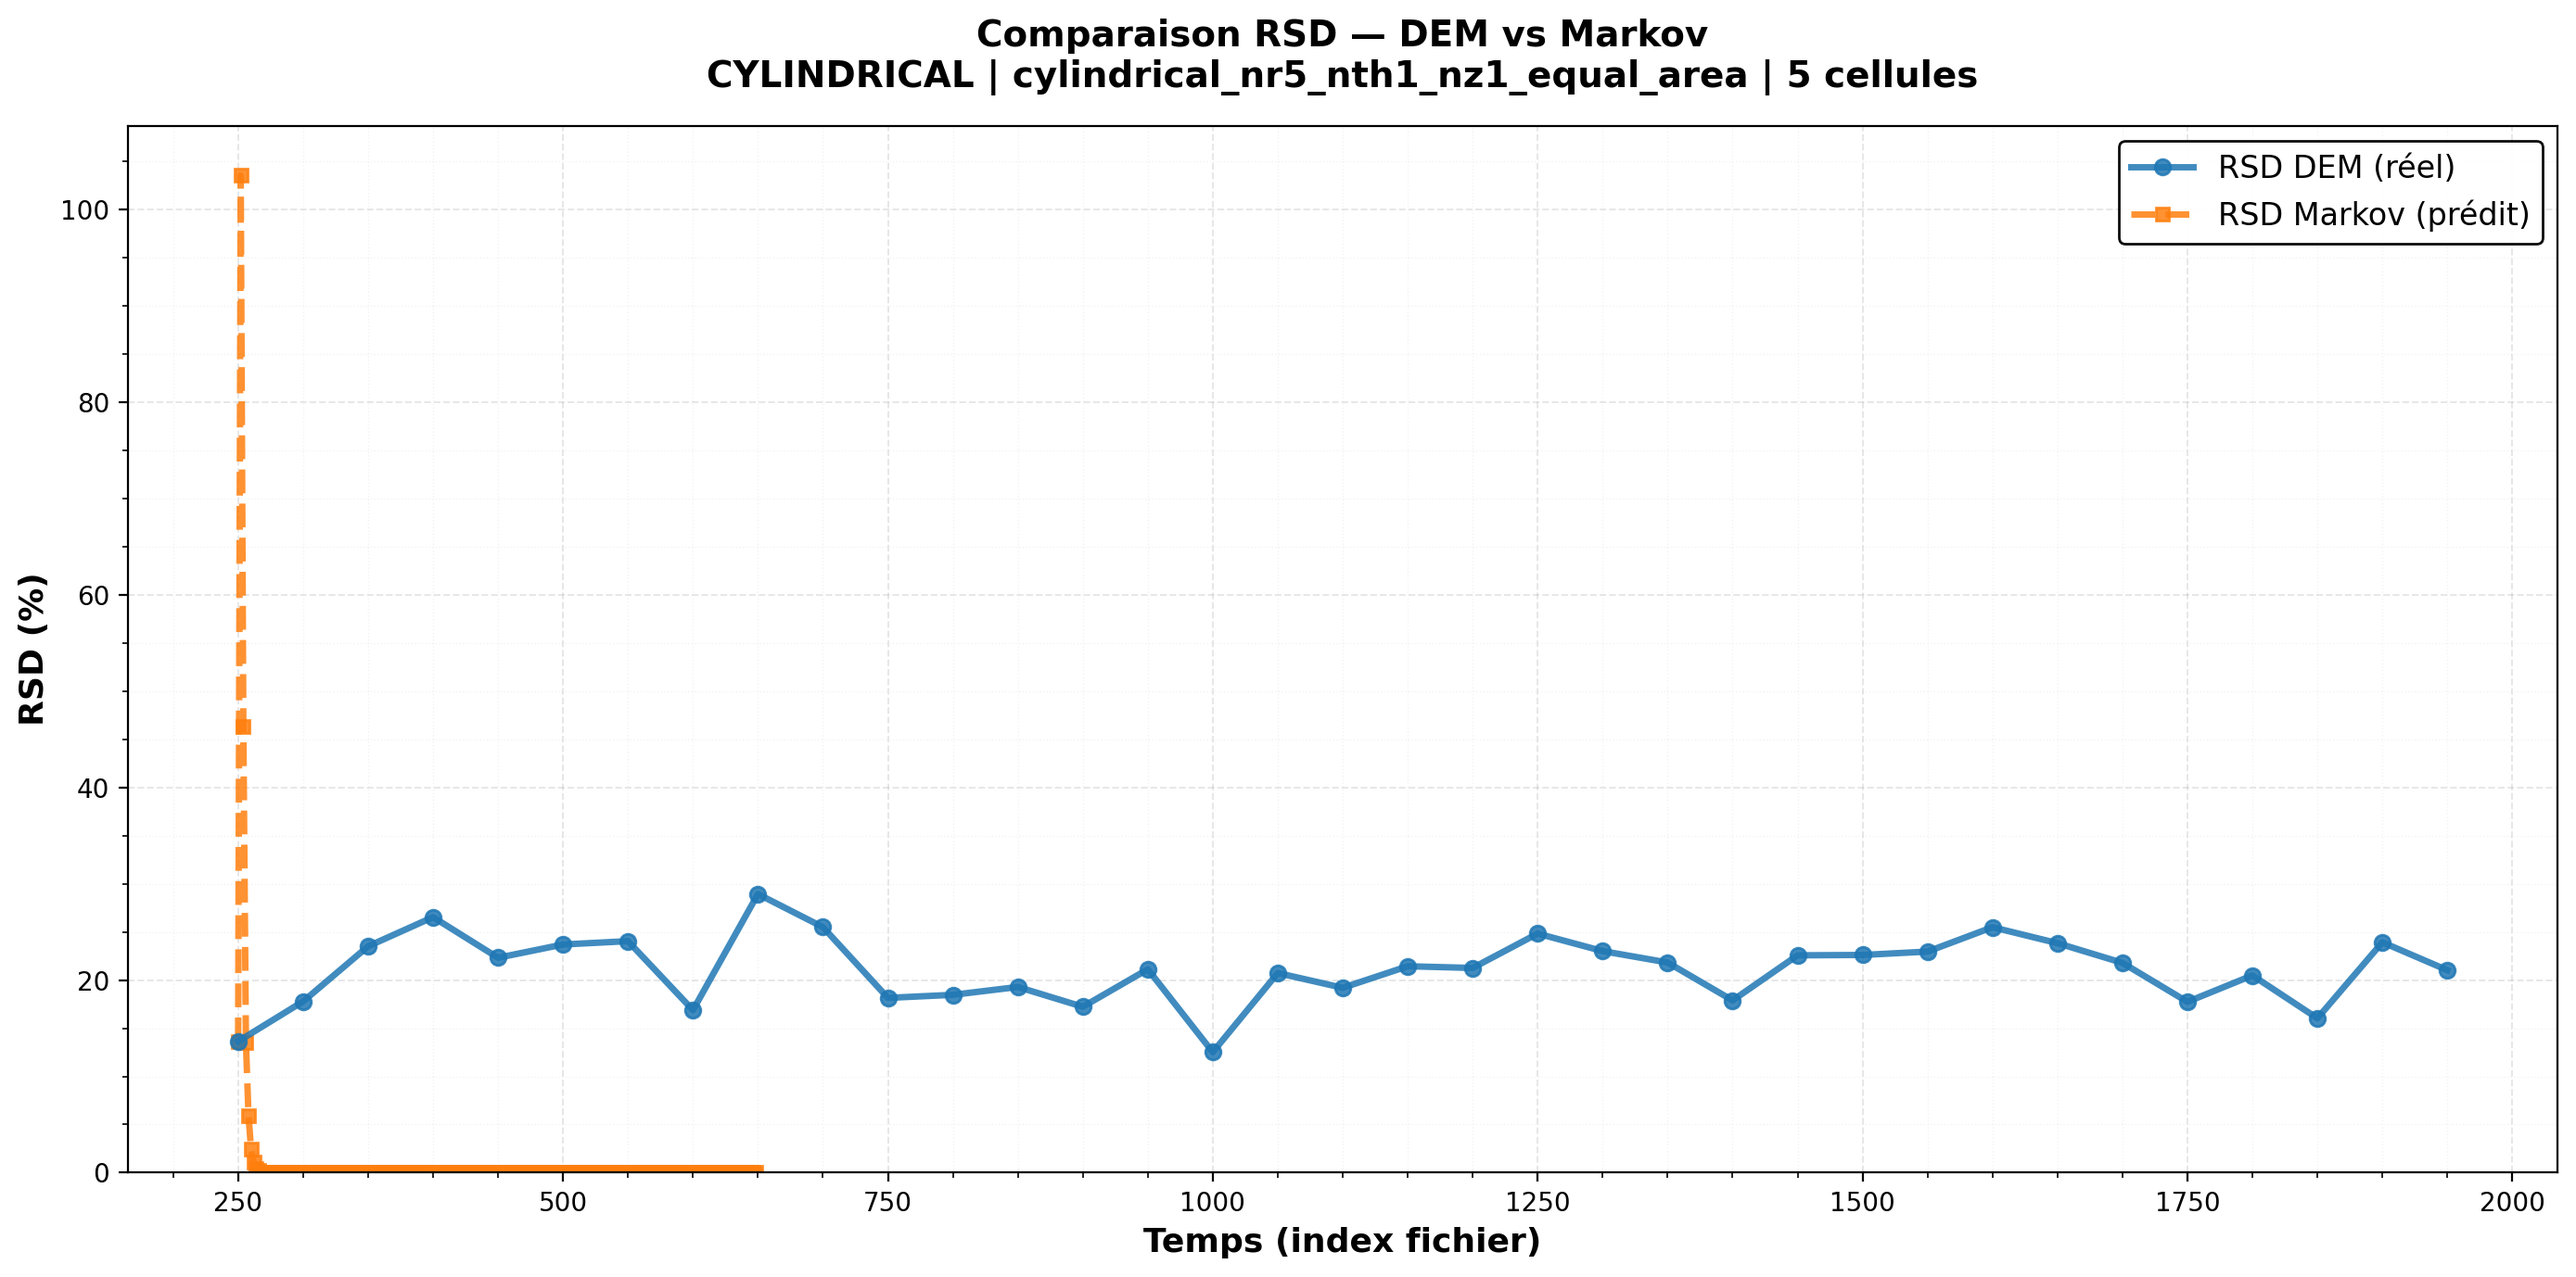
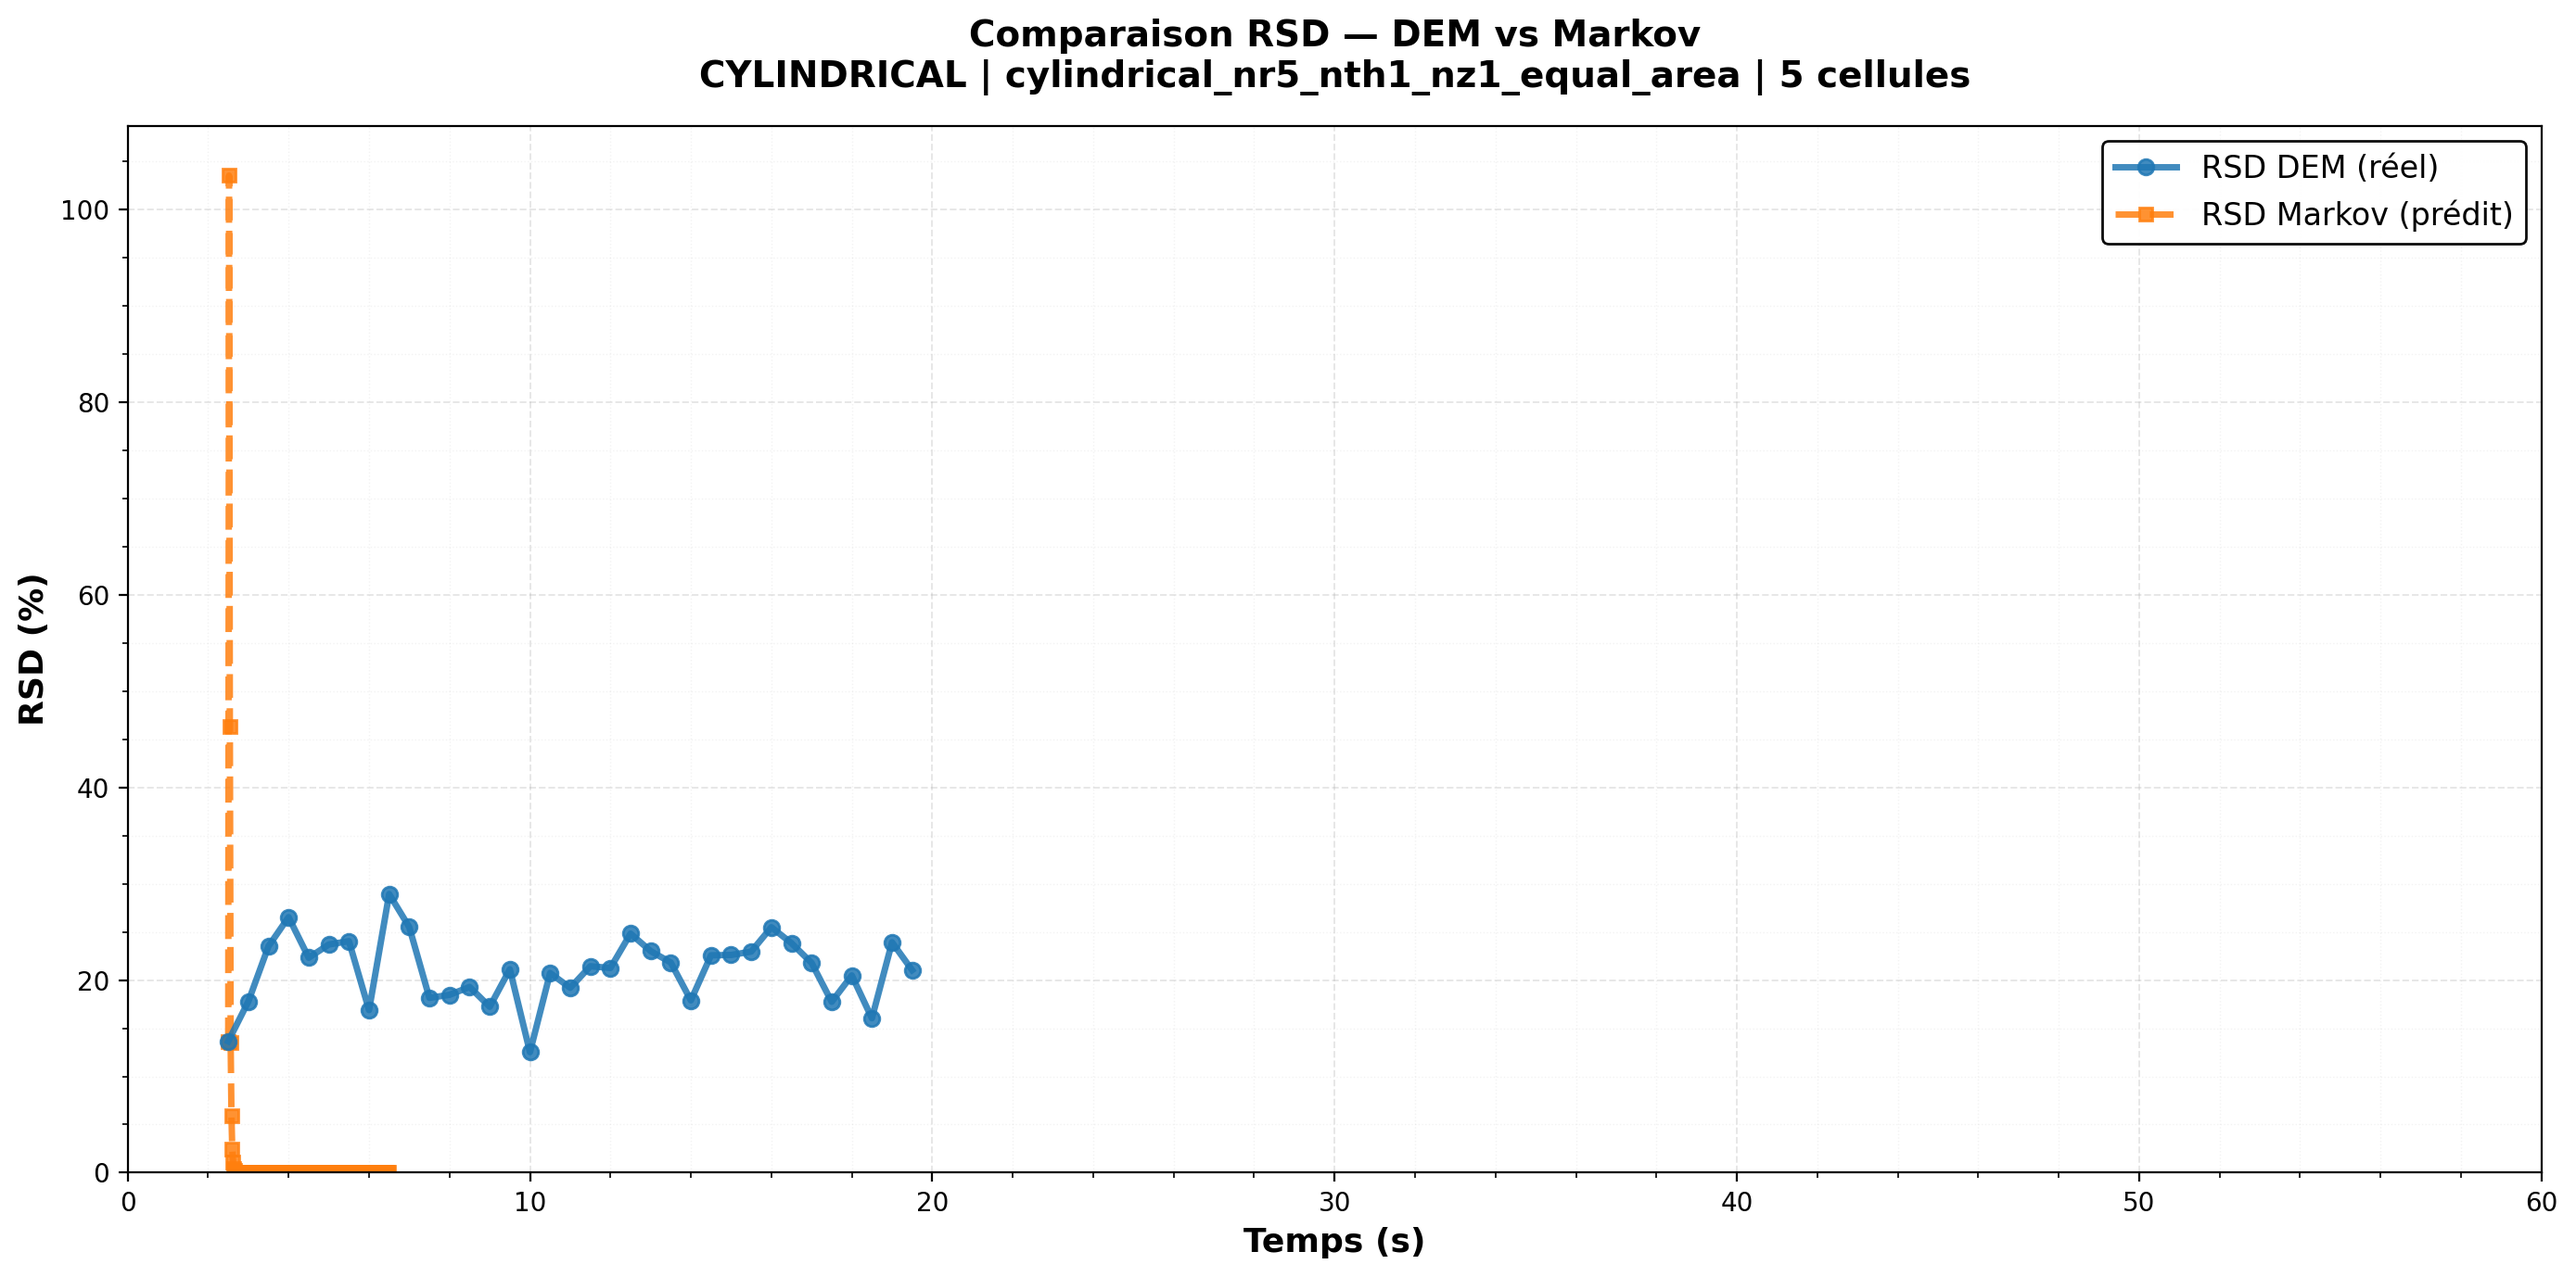
⏱ Plot RSD vs physical time (seconds) instead of file indices
**Changes:**
- plot_dem_vs_markov_simple(): X-axis now shows time in seconds (0-60s)
- Conversion formula: time_s = (file_index / total_files) * max_time_seconds
- Default: 6000 files → 60 seconds
- Markov dt extracted from folder name (dt parameter)
- X-axis limited to 0-60s range

**Files Modified:**
- DEM_MCM/src/analyze_results.py: Updated plot_dem_vs_markov_simple()

**Testing:**
✅ Syntax verified
✅ Tested with cylindrical method (10 cells)
✅ Time axis correctly shows 0-60 seconds range

diff --git a/DEM_MCM/src/analyze_results.py b/DEM_MCM/src/analyze_results.py
@@ -2053,37 +2053,55 @@ Ajoutez ces méthodes à la classe MarkovAnalyzer dans analyze_results.py
 
 
 
-    def plot_dem_vs_markov_simple(self, dem_rsd, markov_rsd, partitioner, method, figsize=(14, 7), save_name=None):
+    def plot_dem_vs_markov_simple(self, dem_rsd, markov_rsd, partitioner, method, 
+                                   figsize=(14, 7), save_name=None, max_time_seconds=60, total_files=6000):
         """
         ✅ Affiche SEULEMENT les courbes RSD DEM vs Markov sur une seule figure.
-        Pas d'entropie, pas de tableau, juste les deux courbes RSD.
+        Tracé en fonction du TEMPS PHYSIQUE (secondes), pas des indices de fichiers.
+        
+        Args:
+            max_time_seconds: temps final en secondes (par défaut 60s)
+            total_files: nombre total de fichiers DEM (par défaut 6000)
         """
         fig, ax = plt.subplots(figsize=figsize)
         
-        # Extraire les temps (compute_dem_rsd retourne 'times', compute_rsd non)
-        times_dem = dem_rsd.get("times", np.arange(len(dem_rsd["rsd"])))
+        # ════════════════════════════════════════════════════════════════
+        # CONVERSION INDICES → TEMPS PHYSIQUE (secondes)
+        # ════════════════════════════════════════════════════════════════
         
-        # Pour Markov, calculer les temps depuis initial_time
-        # Extraire dt du nom du folder (step=dt) ou utiliser default
+        times_dem_indices = dem_rsd.get("times", np.arange(len(dem_rsd["rsd"])))
+        
+        # Conversion DEM: temps_physique = (index_fichier / total_files) * max_time_seconds
+        t_dem_seconds = (times_dem_indices / total_files) * max_time_seconds
+        
+        # Pour Markov: extraire dt du nom du folder
         folder_name = [k for k in self.results.keys()][0] if self.results else ""
         import re
-        dt_match = re.search(r'step(\d+)_dt(\d+)', folder_name)
-        markov_dt = int(dt_match.group(2)) if dt_match else 10
+        dt_match = re.search(r'dt(\d+)', folder_name)
+        markov_dt = int(dt_match.group(1)) if dt_match else 2
         
         markov_initial = markov_rsd.get("initial_time", self.initial_time)
-        times_mkv = markov_initial + np.arange(len(markov_rsd["rsd"])) * markov_dt
+        markov_initial_seconds = (markov_initial / total_files) * max_time_seconds
+        
+        # Conversion Markov: chaque pas = dt fichiers DEM
+        n_steps_mkv = len(markov_rsd["rsd"])
+        t_mkv_seconds = markov_initial_seconds + np.arange(n_steps_mkv) * (markov_dt / total_files) * max_time_seconds
+        
+        # ════════════════════════════════════════════════════════════════
+        # PLOT RSD DEM vs Markov
+        # ════════════════════════════════════════════════════════════════
         
         # DEM curve (points)
-        ax.plot(times_dem, dem_rsd["rsd_percent"],
+        ax.plot(t_dem_seconds, dem_rsd["rsd_percent"],
                color="#1f77b4", marker='o', linewidth=2.5, markersize=6,
                label="RSD DEM (réel)", zorder=3, alpha=0.85)
         
         # Markov curve (smooth line)
-        ax.plot(times_mkv, markov_rsd["rsd_percent"],
+        ax.plot(t_mkv_seconds, markov_rsd["rsd_percent"],
                color="#ff7f0e", marker='s', linewidth=2.5, markersize=5, linestyle='--',
                label="RSD Markov (prédit)", zorder=2, alpha=0.85)
         
-        ax.set_xlabel("Temps (index fichier)", fontsize=13, fontweight='bold')
+        ax.set_xlabel("Temps (s)", fontsize=13, fontweight='bold')
         ax.set_ylabel("RSD (%)", fontsize=13, fontweight='bold')
         ax.set_title(
             f"Comparaison RSD — DEM vs Markov\n"
@@ -2093,6 +2111,7 @@ Ajoutez ces méthodes à la classe MarkovAnalyzer dans analyze_results.py
         
         ax.legend(fontsize=12, loc='best', framealpha=0.95, edgecolor='black')
         ax.grid(True, alpha=0.3, linestyle='--', linewidth=0.7)
+        ax.set_xlim(0, max_time_seconds)
         ax.set_ylim(bottom=0)
         ax.minorticks_on()
         ax.grid(True, which='minor', alpha=0.15, linestyle=':', linewidth=0.5)
